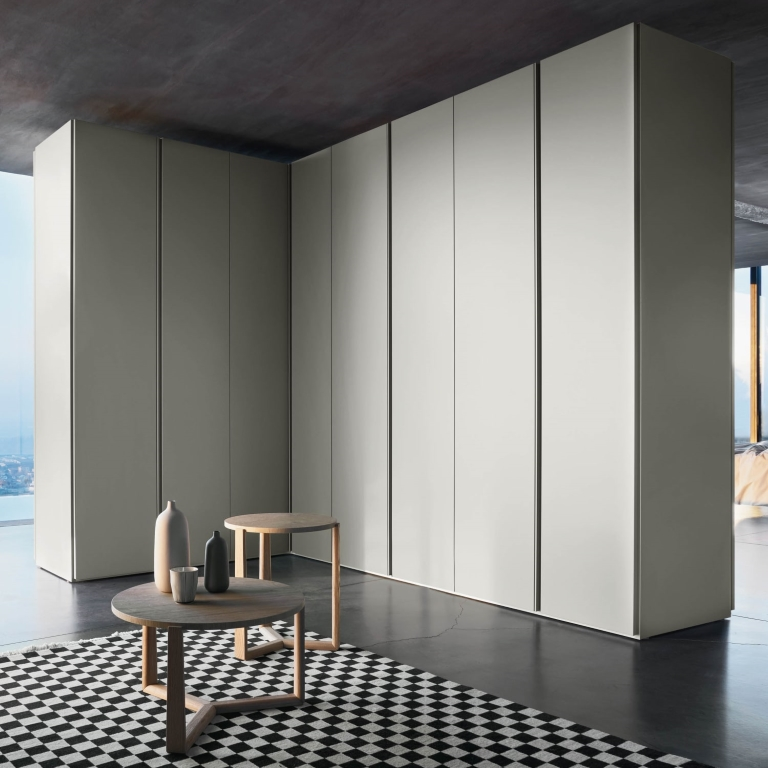
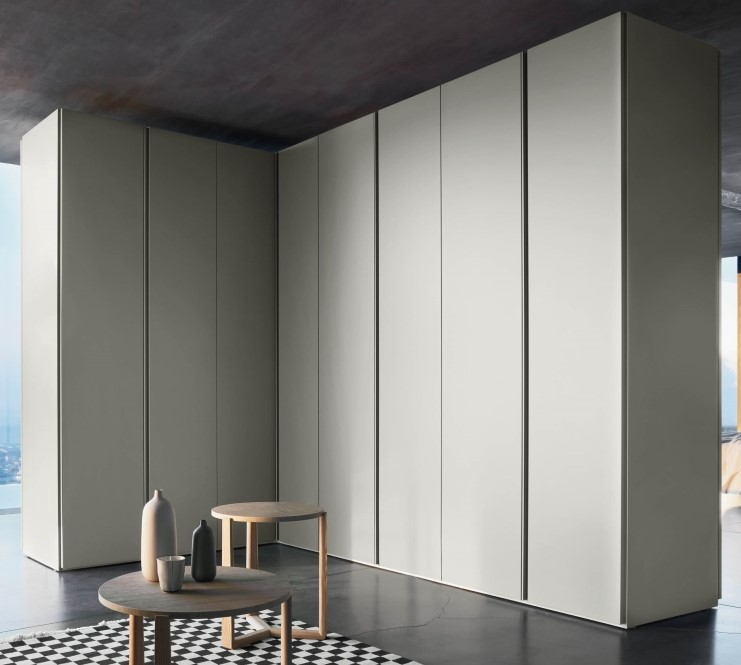
good to go!!

diff --git a/src/app/components/wardrobe/wardrobe.component.html b/src/app/components/wardrobe/wardrobe.component.html
@@ -90,25 +90,25 @@
 
               <div class="carousel-item col-md-6">
                 <figure>
-                  <img src="./assets/img/wardrobe/hinged1.jpg" alt="Carousel Item" style="max-height: 610px;">
+                  <img src="./assets/img/wardrobe/hinged1.jpg" alt="Carousel Item">
                 </figure>
               </div><!-- /.carousel-item -->
 
               <div class="carousel-item col-md-6">
                 <figure>
-                  <img src="./assets/img/wardrobe/hinged2.jpg" alt="Carousel Item" style="max-height: 610px;">
+                  <img src="./assets/img/wardrobe/hinged2.jpg" alt="Carousel Item" >
                 </figure>
               </div><!-- /.carousel-item -->
 
-              <div class="carousel-item col-md-6">
-                <figure>
-                  <img src="./assets/img/wardrobe/hinged3.jpg" alt="Carousel Item" style="max-height: 610px;">
-                </figure>
-              </div><!-- /.carousel-item -->
+              <!-- <div class="carousel-item col-md-6"> -->
+                <!-- <figure> -->
+                  <!-- <img src="./assets/img/wardrobe/hinged3.jpg" alt="Carousel Item"> -->
+                <!-- </figure> -->
+              <!-- </div>/.carousel-item -->
 
               <div class="carousel-item col-md-6">
                 <figure>
-                  <img src="./assets/img/wardrobe/hinged4.jpg" alt="Carousel Item" style="max-height: 610px;">
+                  <img src="./assets/img/wardrobe/hinged5.jpg" alt="Carousel Item">
                 </figure>
               </div><!-- /.carousel-item -->
 
@@ -147,7 +147,7 @@
                     <!--                    </div>&lt;!&ndash; /.liquid-img-group-content &ndash;&gt;-->
                     <div class="liquid-img-container-inner">
                       <figure data-responsive-bg="true">
-                        <img src="./assets/img/wardrobe/sliding1.jpg" alt="Ave" style="max-height: 710px;" />
+                        <img src="./assets/img/wardrobe/sliding1.jpg" alt="Ave"  />
                       </figure>
                     </div><!-- /.liquid-img-container-inner -->
                   </div><!-- /.liquid-img-group-img-container -->
@@ -198,13 +198,13 @@
 
               <div class="carousel-item col-md-6">
                 <figure>
-                  <img src="./assets/img/wardrobe/sliding1.jpg" alt="Carousel Item" style="max-height: 610px;">
+                  <img src="./assets/img/wardrobe/sliding1.jpg" alt="Carousel Item" style="height:600px;">
                 </figure>
               </div><!-- /.carousel-item -->
 
               <div class="carousel-item col-md-6">
                 <figure>
-                  <img src="./assets/img/wardrobe/sliding2.jpg" alt="Carousel Item" style="max-height: 610px;">
+                  <img src="./assets/img/wardrobe/sliding2.jpg" alt="Carousel Item" style="height:600px;">
                 </figure>
               </div><!-- /.carousel-item -->
 
@@ -297,25 +297,25 @@
 
               <div class="carousel-item col-md-6">
                 <figure>
-                  <img src="./assets/img/wardrobes/walkin1.jpg" alt="Carousel Item" style="max-height: 610px;">
+                  <img src="./assets/img/wardrobe/walkin1.jpg" alt="Carousel Item1" >
                 </figure>
               </div><!-- /.carousel-item -->
 
               <div class="carousel-item col-md-6">
                 <figure>
-                  <img src="./assets/img/wardrobe/walkin2.jpg" alt="Carousel Item" style="max-height: 610px;">
+                  <img src="./assets/img/wardrobe/walkin2.jpg" alt="Carousel Item2" >
                 </figure>
               </div><!-- /.carousel-item -->
 
               <div class="carousel-item col-md-6">
                 <figure>
-                  <img src="./assets/img/wardrobe/walkin3.jpg" alt="Carousel Item" style="max-height: 610px;">
+                  <img src="./assets/img/wardrobe/walkin3.jpg" alt="Carousel Item3" >
                 </figure>
               </div><!-- /.carousel-item -->
 
               <div class="carousel-item col-md-6">
                 <figure>
-                  <img src="./assets/img/wardrobe/walkin4.jpg" alt="Carousel Item" style="max-height: 610px;">
+                  <img src="./assets/img/wardrobe/walkin4.jpg" alt="Carousel Item4" >
                 </figure>
               </div><!-- /.carousel-item -->
 

diff --git a/src/app/app.component.html b/src/app/app.component.html
@@ -212,9 +212,9 @@
               <div class="header-module">
 
                 <ul class="social-icon vertical">
-                  <li><a href="#"><i class="fa fa-twitter"></i></a></li>
-                  <li><a href="#"><i class="fa fa-facebook"></i></a></li>
-                  <li><a href="#"><i class="fa fa-dribbble"></i></a></li>
+                  <li><a href="https://www.instagram.com/elitekuche/"><i class="fa fa-instagram"></i></a></li>
+                  <li><a href="https://www.facebook.com/elitekucheraipur"><i class="fa fa-facebook"></i></a></li>
+                  <!-- <li><a href="#"><i class="fa fa-dribbble"></i></a></li> -->
                 </ul>
 
               </div><!-- /.header-module -->
